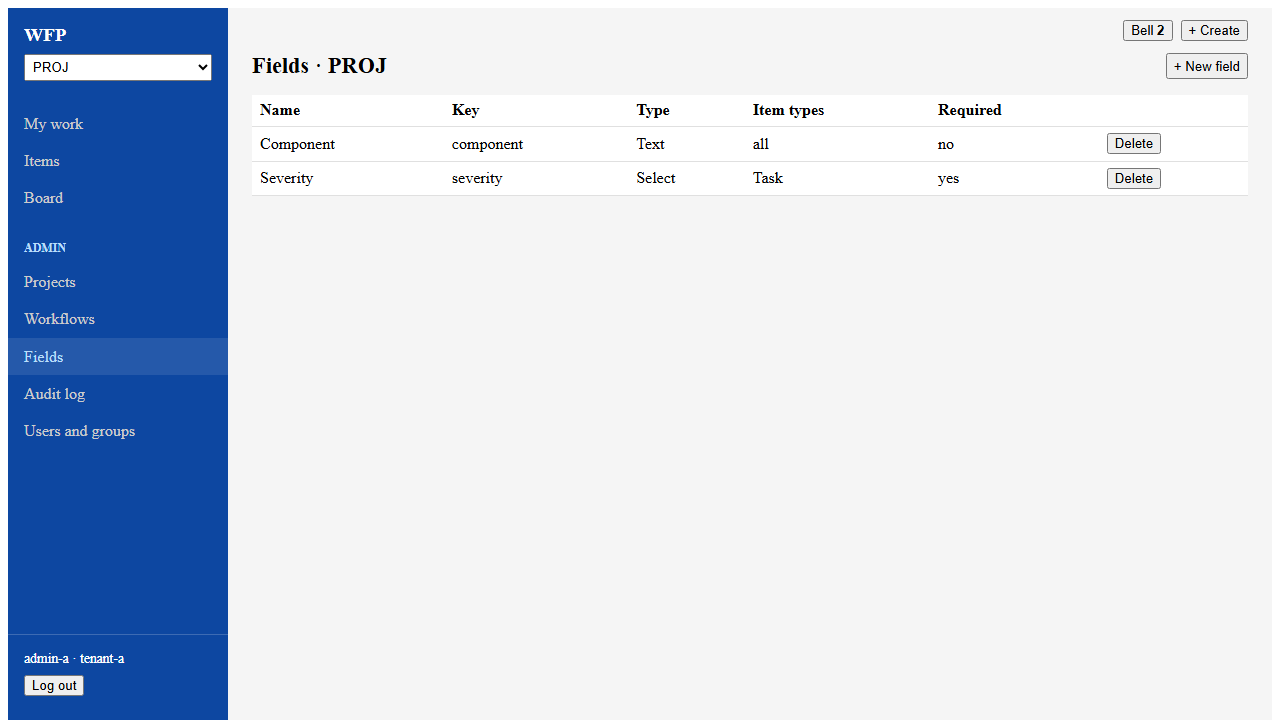
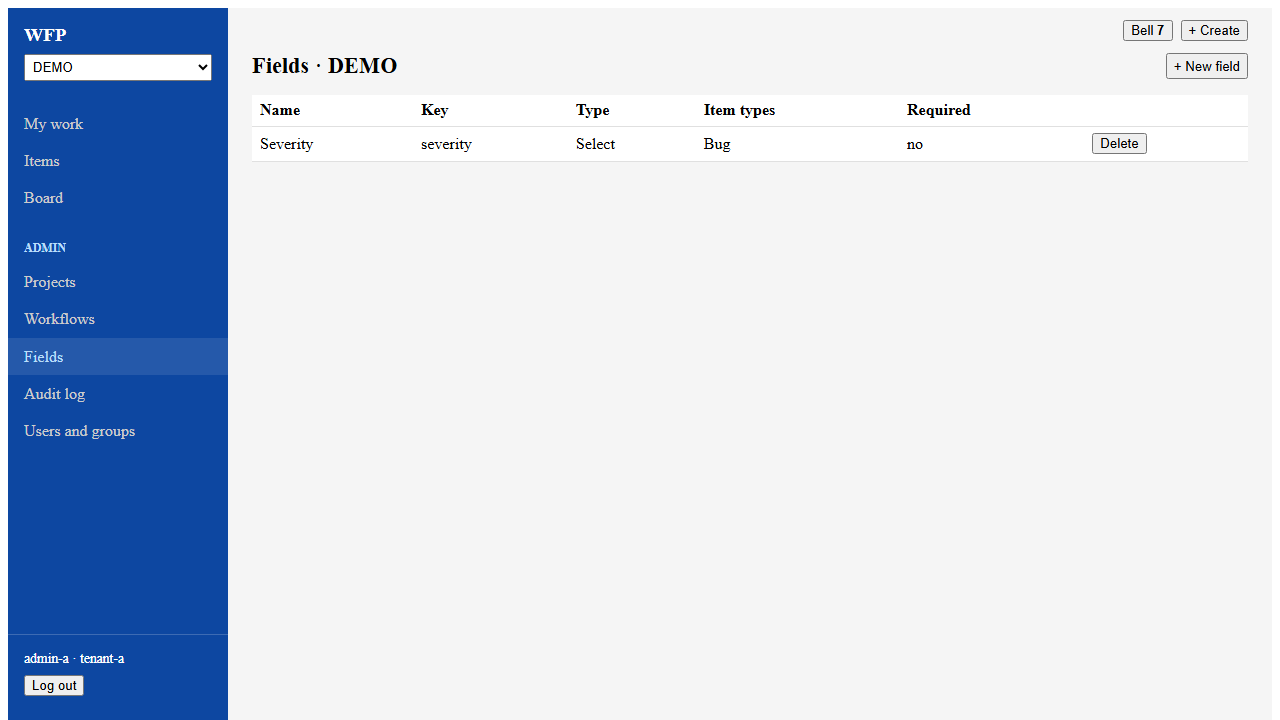
test(e2e): demo data for a fresh stack and self-sufficient screenshots
The screenshot suite expected a hand-made PROJ project, so it failed on a
recreated stack. A demo-data step now creates the DEMO project, a Severity
field and eight items, and the screenshots run after it. `npm run demo-data`
runs the same step alone to fill a fresh stack.

Screenshots are refreshed from an empty stack.

Claude-Session: https://claude.ai/code/session_01H6oLxLxcstwLfnykrvnywd

diff --git a/e2e/demo-data.setup.ts b/e2e/demo-data.setup.ts
@@ -1,0 +1,87 @@
+import { expect, test as setup, type APIRequestContext } from '@playwright/test';
+import fs from 'fs';
+import path from 'path';
+
+const API_URL = 'http://localhost:5175/api';
+const TOKEN_URL = 'http://localhost:8180/realms/workflow-platform/protocol/openid-connect/token';
+const PROJECT = 'DEMO';
+const SAMPLE_WORKFLOW = fs.readFileSync(path.join(__dirname, 'samples', 'tracker-flow.bpmn20.xml'), 'utf-8');
+
+const ITEMS = [
+  { type: 'Bug', title: 'Login page loops after the session expires', priority: 'HIGH', assignee: 'user-a', severity: 'major', transitions: ['accept', 'startWork'] },
+  { type: 'Task', title: 'Write the onboarding guide', priority: 'MEDIUM', assignee: 'user-a', transitions: ['accept'] },
+  { type: 'Task', title: 'Upgrade the PostgreSQL driver', priority: 'LOW', assignee: 'admin-a', transitions: ['accept', 'startWork', 'finish'] },
+  { type: 'Bug', title: 'Export drops rows with empty dates', priority: 'MEDIUM', assignee: 'user-a', severity: 'minor', transitions: [] },
+  { type: 'Task', title: 'Review the access rules for contractors', priority: 'HIGH', assignee: 'admin-a', transitions: ['accept', 'startWork'] },
+  { type: 'Bug', title: 'Attachment upload fails above 10 MB without a message', priority: 'LOW', severity: 'minor', transitions: ['accept'] },
+  { type: 'Task', title: 'Plan the quarterly release', priority: 'MEDIUM', assignee: 'user-a', transitions: [] },
+  { type: 'Task', title: 'Archive the old audit exports', priority: 'LOW', assignee: 'user-a', transitions: ['accept', 'startWork', 'finish', 'close'] },
+];
+
+async function client(request: APIRequestContext, username: string) {
+  const login = await request.post(TOKEN_URL, {
+    form: { grant_type: 'password', client_id: 'wfp-web', username, password: 'password' },
+  });
+  expect(login.status(), await login.text()).toBe(200);
+  const headers = { Authorization: `Bearer ${(await login.json()).access_token}` };
+  return {
+    get: async (url: string) => (await request.get(`${API_URL}${url}`, { headers })).json(),
+    post: async (url: string, data: object) => {
+      const response = await request.post(`${API_URL}${url}`, { headers, data });
+      expect(response.ok(), `POST ${url}: ${await response.text()}`).toBe(true);
+      return response.json();
+    },
+  };
+}
+
+setup('demo project with items', async ({ request }) => {
+  const admin = await client(request, 'admin-a');
+  const user = await client(request, 'user-a');
+
+  const workflows: { key: string }[] = await admin.get('/workflow/deployments');
+  if (!workflows.some((workflow) => workflow.key === 'trackerFlow')) {
+    await admin.post('/workflow/deployments', { name: 'trackerFlow', bpmnXml: SAMPLE_WORKFLOW });
+  }
+
+  const projects: { key: string }[] = await admin.get('/projects');
+  if (projects.some((project) => project.key === PROJECT)) {
+    return;
+  }
+  await admin.post('/projects', {
+    key: PROJECT,
+    name: 'Demo project',
+    itemTypes: [
+      { name: 'Task', workflowKey: 'default' },
+      { name: 'Bug', workflowKey: 'default' },
+    ],
+  });
+  await admin.post('/fields/schemas', {
+    project: PROJECT,
+    itemTypes: ['Bug'],
+    fieldKey: 'severity',
+    label: 'Severity',
+    fieldType: 'DROPDOWN',
+    options: [
+      { label: 'Minor', value: 'minor', sortOrder: 0 },
+      { label: 'Major', value: 'major', sortOrder: 1 },
+    ],
+  });
+
+  for (const { type, title, priority, assignee, severity, transitions } of ITEMS) {
+    const item = await user.post('/items', {
+      project: PROJECT,
+      type,
+      title,
+      priority,
+      assignee,
+      description: 'Sample item created by the demo data script.',
+      fields: severity ? { severity } : {},
+    });
+    for (const transitionId of transitions) {
+      await user.post(`/items/${item.key}/transitions`, { transitionId });
+    }
+  }
+  await admin.post(`/items/${PROJECT}-1/comments`, {
+    content: 'Reproduced on the staging stack. The refresh token is not renewed.',
+  });
+});

diff --git a/e2e/screenshots.test.ts b/e2e/screenshots.test.ts
@@ -28,7 +28,8 @@ test.describe('Screenshot Capture', () => {
 
   test('User screens', async ({ page }) => {
     await login(page, 'user-a');
-    await page.getByLabel('Project').selectOption('PROJ');
+    await page.getByLabel('Project').selectOption('DEMO');
+    await expect(page.getByRole('link', { name: 'DEMO-1', exact: true })).toBeVisible();
     await capture(page, 'my-work');
 
     await page.getByRole('link', { name: 'Items' }).click();
@@ -41,26 +42,26 @@ test.describe('Screenshot Capture', () => {
     await capture(page, 'create-item');
     await page.getByRole('button', { name: 'Cancel' }).click();
 
-    await page.locator('tbody tr').first().getByRole('link').click();
+    await page.getByRole('link', { name: 'DEMO-1', exact: true }).click();
     await expect(page.getByRole('heading', { name: 'Comments' })).toBeVisible();
     await page.waitForTimeout(800);
     await capture(page, 'item-detail');
 
     await page.getByRole('link', { name: 'Board' }).click();
-    await expect(page.getByRole('region', { name: 'Open', exact: true })).toBeVisible();
+    await expect(page.getByRole('region', { name: 'Open', exact: true }).getByRole('link').first()).toBeVisible();
     await capture(page, 'board');
   });
 
   test('Admin screens', async ({ page }) => {
     await login(page, 'admin-a');
-    await page.getByLabel('Project').selectOption('PROJ');
+    await page.getByLabel('Project').selectOption('DEMO');
 
     await page.getByRole('link', { name: 'Projects' }).click();
-    await expect(page.getByRole('cell', { name: 'PROJ', exact: true })).toBeVisible();
+    await expect(page.getByRole('cell', { name: 'DEMO', exact: true })).toBeVisible();
     await capture(page, 'admin-projects');
 
     await page.getByRole('link', { name: 'Workflows' }).click();
-    const workflow = page.getByRole('row', { name: /simple/ });
+    const workflow = page.getByRole('row', { name: /trackerFlow/ });
     await expect(workflow).toBeVisible();
     await capture(page, 'admin-workflows');
 

diff --git a/e2e/playwright.config.ts b/e2e/playwright.config.ts
@@ -9,6 +9,7 @@ export default defineConfig({
   },
   projects: [
     { name: 'e2e', testIgnore: 'screenshots.test.ts' },
-    { name: 'screenshots', testMatch: 'screenshots.test.ts' },
+    { name: 'demo-data', testMatch: 'demo-data.setup.ts' },
+    { name: 'screenshots', testMatch: 'screenshots.test.ts', dependencies: ['demo-data'] },
   ],
 });

diff --git a/docs/engineering-process.md b/docs/engineering-process.md
@@ -46,7 +46,7 @@ and `docs/design/`. This file covers only how we work.
 - Both hooks skip the tests when every changed file is `*.md`, under `docs/` or under `.claude/`.
 - The hooks fire only for commands Claude runs, not for git in your own terminal. Branch protection is the safety net; the hooks exist to fail fast.
 - E2E tests run in CI, not locally before a push: CI starts a fresh stack, while every local checkout shares one Docker stack.
-- Doc screenshots are not part of the E2E run. Refresh them on purpose with `cd e2e && npm run screenshots` and commit them in a `docs/` PR.
+- Doc screenshots are not part of the E2E run. Refresh them on purpose with `cd e2e && npm run screenshots` and commit them in a `docs/` PR. The run first creates the `DEMO` project it photographs (`npm run demo-data`), so it works on a fresh stack; use a fresh stack to keep other test data out of the pictures.
 - Known gaps in these gates are issues labelled `process`: `gh issue list --label process`.
 
 ## Local Docker stack

diff --git a/README.md b/README.md
@@ -68,6 +68,14 @@ Once running, the services are available at:
 | App (API) | http://localhost:8081 |
 | PostgreSQL | localhost:5433 (wfp/wfp_secret) |
 
+A fresh stack has no projects. To add a demo project (`DEMO`) with a custom field and a few items in `tenant-a`:
+
+```bash
+cd e2e && npm ci && npm run demo-data
+```
+
+Running it again changes nothing.
+
 ## Local Development
 
 ### Backend
